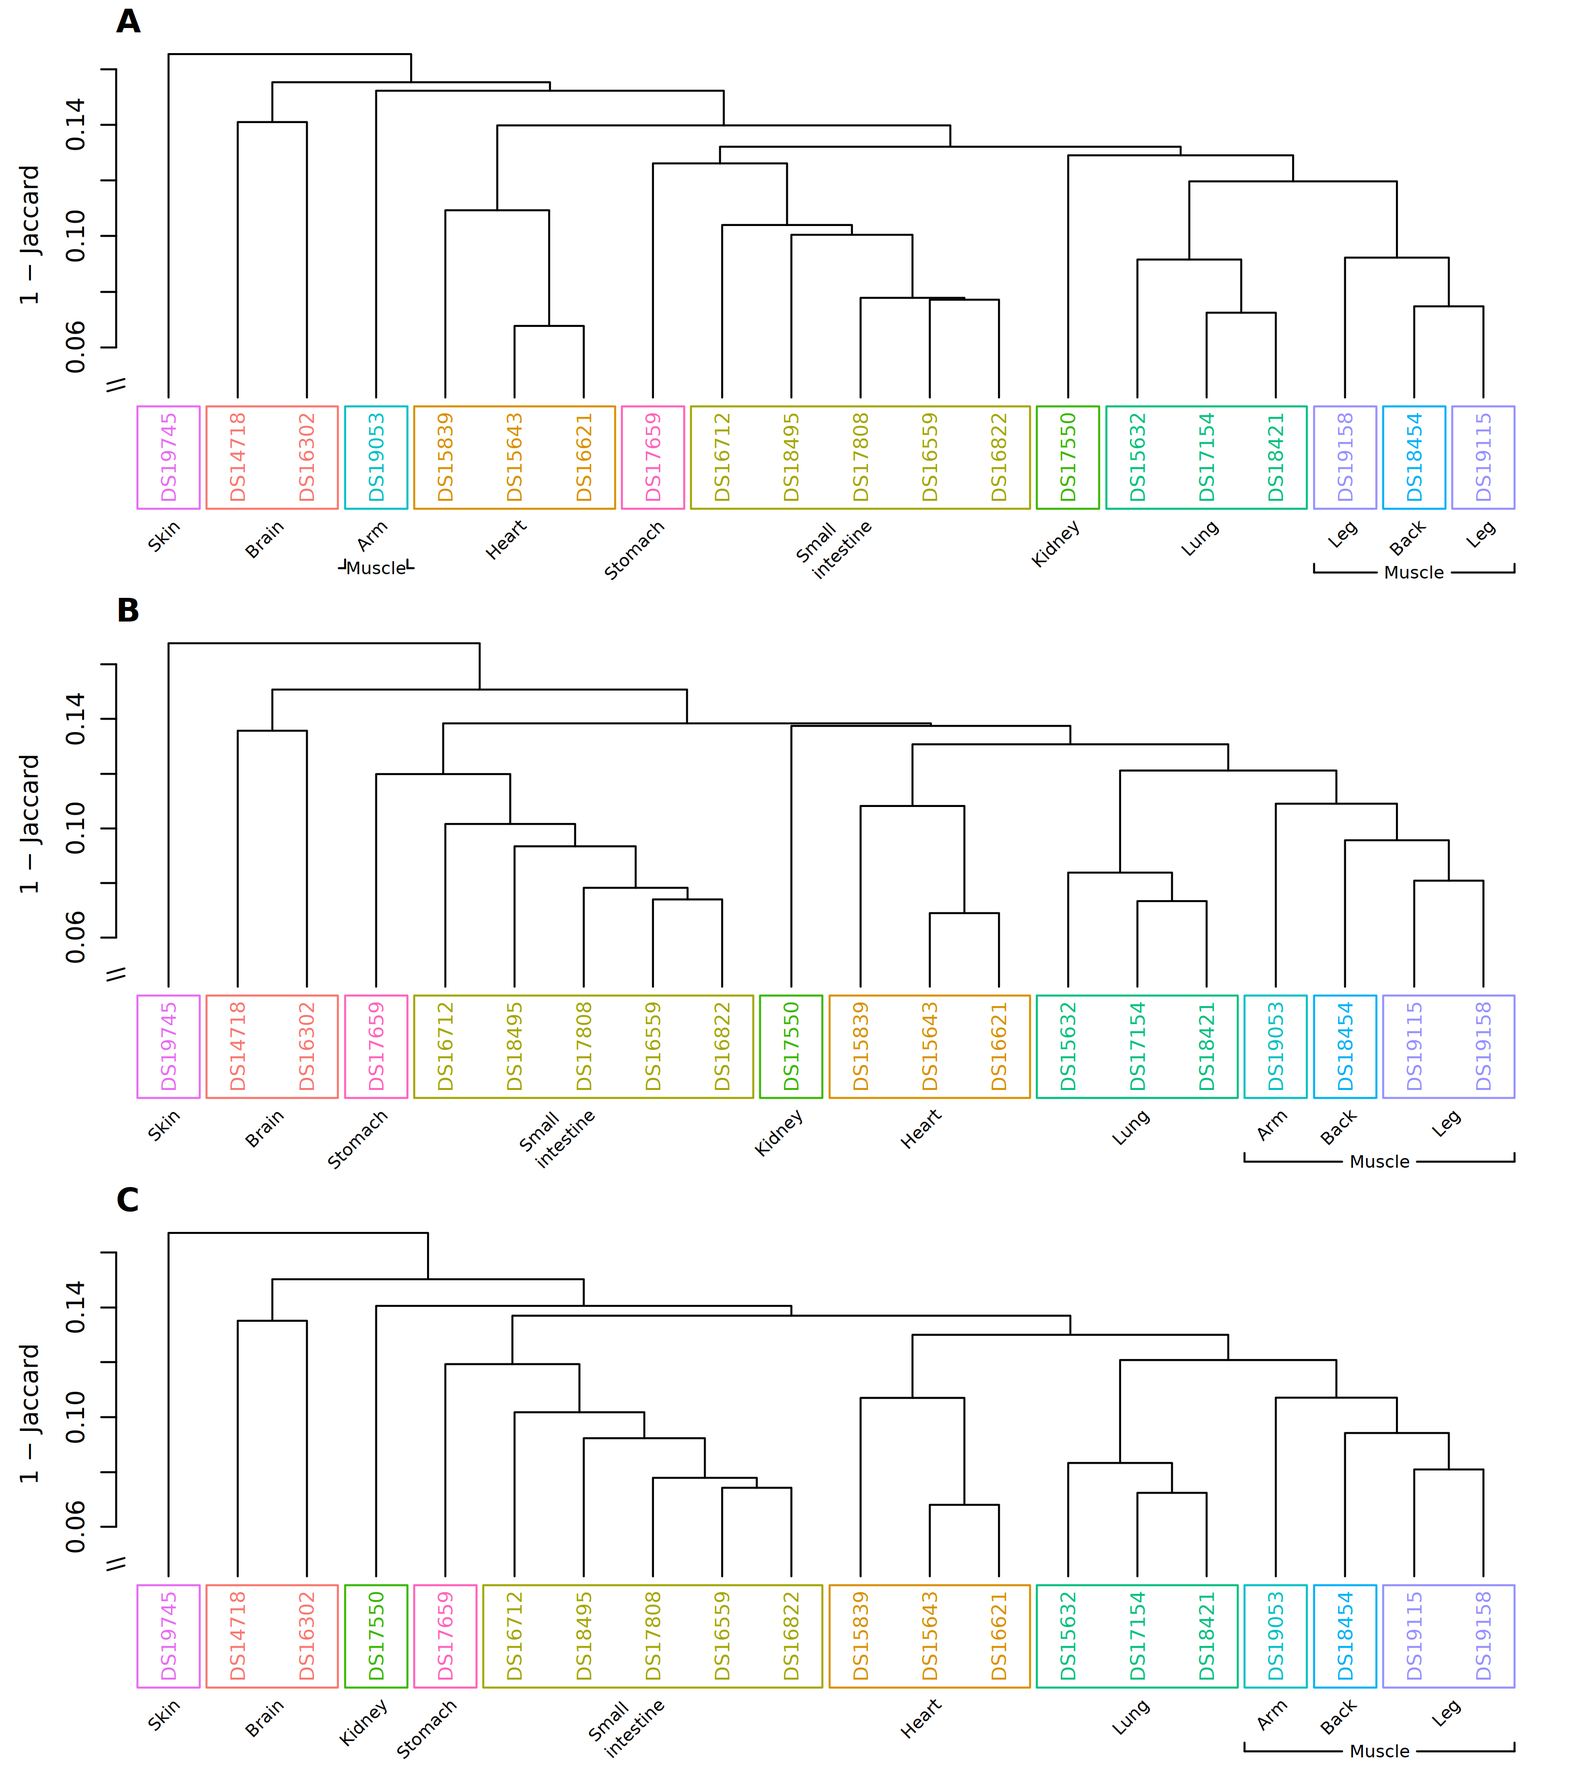
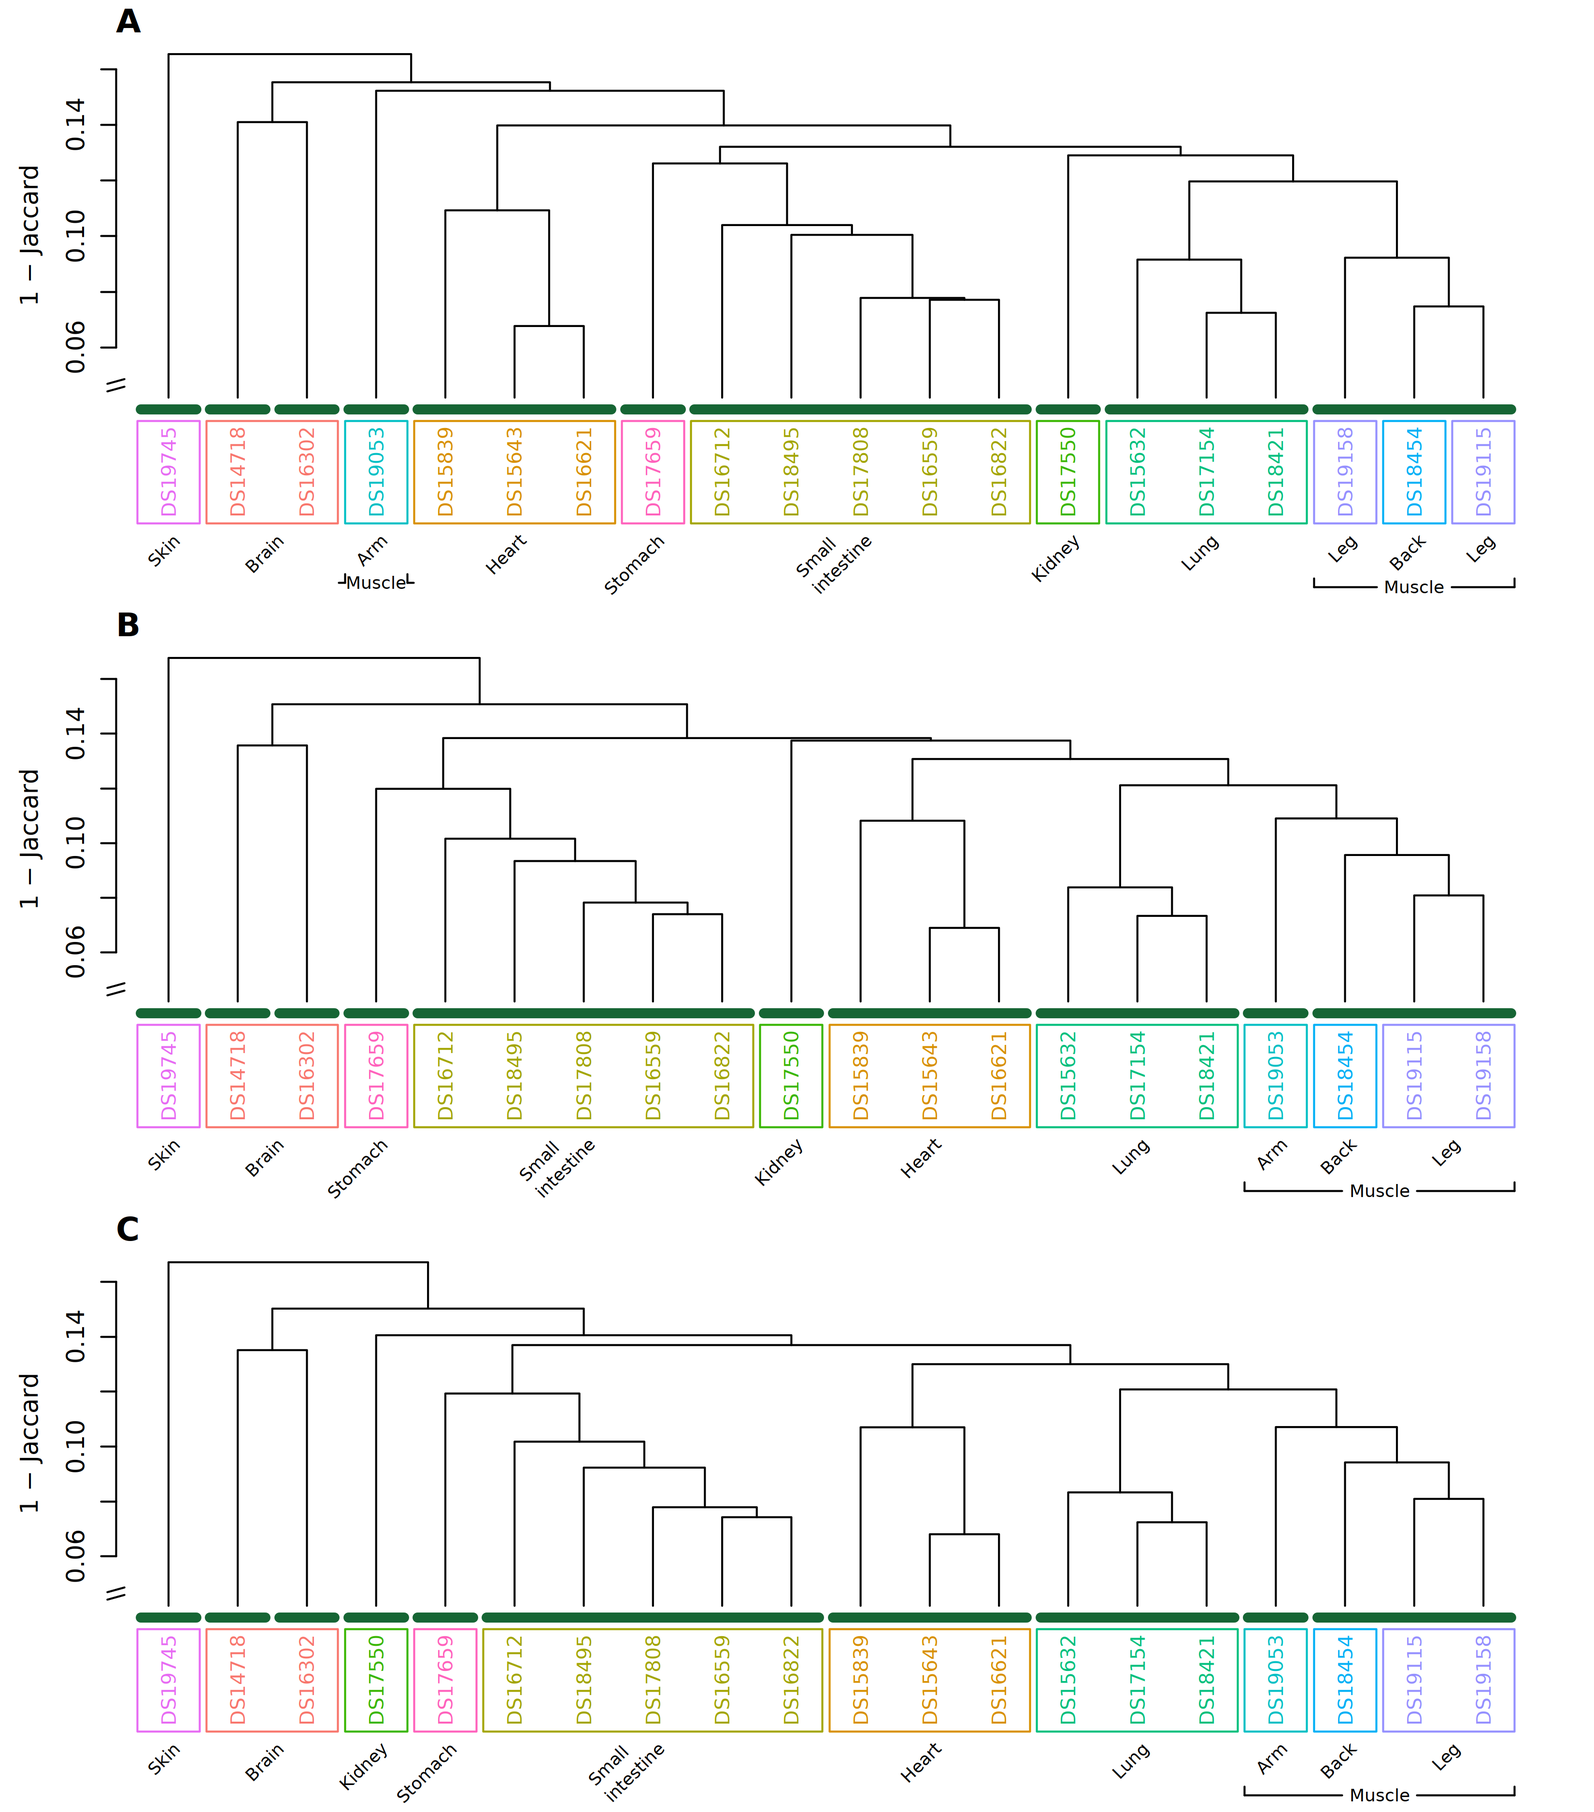
Add cluster annotations to precision comparisons

diff --git a/paper/outline.md b/paper/outline.md
@@ -82,7 +82,7 @@ Together, the synthetic and real-data benchmarks show that hammock improves the 
 
 ![Figure 6B](figures/sequence_tissue_distance_heatmap.png)
 
-**Figure 6. Sequence sketches recover fetal-tissue organization in the Maurano DNase hypersensitivity subset.** Twenty fetal-tissue DNase-seq interval sets spanning ten annotated tissue labels were converted to interval-derived sequence and compared using the inclusion–exclusion Jaccard estimate at k=10, w=30, and HyperLogLog precision p=18, the hammock CLI default. **(A)** Average-linkage agglomerative hierarchical clustering was performed on 1−J. Leaf labels show dataset accessions and are colored and boxed by annotated tissue; these annotations do not represent a discrete cluster cut. **(B)** The complete pairwise 1−J distance matrix follows the leaf order of the average-linkage dendrogram in A for direct comparison; this display ordering does not affect distances or cluster assignments. Accession-label colors and marginal bars denote the annotated tissues. A bracket visually groups arm, back, and leg under muscle, but these three muscle subtypes remain separate labels in the ten-class evaluation. Lime-green diagonal outlines show the result of cutting the average-linkage agglomerative hierarchy into ten clusters. They expose the departures from the annotated tissue partition: the two brain samples occupy separate singleton clusters, whereas the back-muscle sample and two leg-muscle samples occupy one cluster without the arm-muscle sample. The brain samples remain adjacent in the dendrogram leaf order, but their pairwise distance (1−J=0.136) exceeds the tightest within-tissue distances for heart (~0.069) and lung (~0.073). The outlined ten-cluster cut separates the brain pair while retaining those tighter groups, yielding ARI=0.910 and NMI=0.961. The ten-cluster partition, ARI, and NMI are unchanged across the tested precisions p∈{12,14,16,18,20,22,23,24}.
+**Figure 6. Sequence sketches recover fetal-tissue organization in the Maurano DNase hypersensitivity subset.** Twenty fetal-tissue DNase-seq interval sets spanning ten annotated tissue labels were converted to interval-derived sequence and compared using the inclusion–exclusion Jaccard estimate at k=10, w=30, and HyperLogLog precision p=18, the hammock CLI default. **(A)** Average-linkage agglomerative hierarchical clustering was performed on 1−J. Leaf labels show dataset accessions and are colored and boxed by annotated tissue. The dark-green strip immediately above the labels shows the inferred ten-cluster cut, with white gaps marking cluster boundaries; the colored tissue boxes remain reference annotations rather than inferred clusters. **(B)** The complete pairwise 1−J distance matrix follows the leaf order of the average-linkage dendrogram in A for direct comparison; this display ordering does not affect distances or cluster assignments. Accession-label colors and marginal bars denote the annotated tissues. A bracket visually groups arm, back, and leg under muscle, but these three muscle subtypes remain separate labels in the ten-class evaluation. Lime-green diagonal outlines show the same ten-cluster cut as the strip in A. They expose the departures from the annotated tissue partition: the two brain samples occupy separate singleton clusters, whereas the back-muscle sample and two leg-muscle samples occupy one cluster without the arm-muscle sample. The brain samples remain adjacent in the dendrogram leaf order, but their pairwise distance (1−J=0.136) exceeds the tightest within-tissue distances for heart (~0.069) and lung (~0.073). The outlined ten-cluster cut separates the brain pair while retaining those tighter groups, yielding ARI=0.910 and NMI=0.961. The ten-cluster partition, ARI, and NMI are unchanged across the tested precisions p∈{12,14,16,18,20,22,23,24}.
 
 **Figure 6 generation.** Panel A is generated by `paper/sequence_tissue_clustering/plot_sequence_tissue_clustering.R` and written to `paper/figures/sequence_tissue_clustering.png`; Panel B is generated by `paper/sequence_tissue_clustering/plot_distance_heatmap.R` and written to `paper/figures/sequence_tissue_distance_heatmap.png`. Both scripts read `experiments/maurano_dhs_validation/results/raw_d/hammock_mnmzr_p18_jaccD_k10_w30.csv`, use `jaccard_similarity_ie`, and obtain tissue annotations from `experiments/maurano_dhs_validation/data/maurano_filenames_key.tsv`. The archived sweep predates the native inclusion–exclusion output column, so the scripts derive it from `containment_AB` and `containment_BA`.
 
@@ -122,7 +122,7 @@ Because arm, back, and leg samples all represent muscle tissue, we also evaluate
 
 ![Figure S5a, panel B](figures/sequence_tissue_distance_heatmap_k20_w20.png)
 
-**Figure S5a. Numerical agreement with exact interval Jaccard does not maximize recovery of fetal-tissue organization.** The same 20 fetal-tissue DNase-seq interval sets shown in Figure 6 were compared using the inclusion–exclusion Jaccard estimate, `jaccard_similarity_ie`, at k=20, w=20, and HyperLogLog precision p=18—the parameter combination with the greatest Pearson correlation with exact BEDTools Jaccard within the p=18 comparison shown in Figure 7 (r=0.99997). **(A)** Average-linkage agglomerative hierarchical clustering was performed on 1−J. Leaf labels show dataset accessions and are colored and boxed by annotated tissue; these annotations do not represent a discrete cluster cut. **(B)** The complete pairwise 1−J distance matrix follows the dendrogram leaf order in A; this display ordering does not affect distances or cluster assignments. Accession-label colors and marginal bars denote annotated tissues, with arm, back, and leg grouped under muscle. Lime-green diagonal outlines show the result of cutting the average-linkage agglomerative hierarchy into ten clusters. Relative to the annotated tissue partition, the cut separates the two brain samples, separates one of the five small-intestine samples, and combines the arm, back, and two leg samples into one cluster, yielding ARI=0.693 and NMI=0.905. In contrast, the biologically selected k=10, w=30 setting in Figure 6 at the same precision yields ARI=0.910 and NMI=0.961, demonstrating that numerical agreement with exact pairwise Jaccard and recovery of tissue organization select different sequence-sketch parameters.
+**Figure S5a. Numerical agreement with exact interval Jaccard does not maximize recovery of fetal-tissue organization.** The same 20 fetal-tissue DNase-seq interval sets shown in Figure 6 were compared using the inclusion–exclusion Jaccard estimate, `jaccard_similarity_ie`, at k=20, w=20, and HyperLogLog precision p=18—the parameter combination with the greatest Pearson correlation with exact BEDTools Jaccard within the p=18 comparison shown in Figure 7 (r=0.99997). **(A)** Average-linkage agglomerative hierarchical clustering was performed on 1−J. Leaf labels show dataset accessions and are colored and boxed by annotated tissue. The dark-green strip immediately above the labels shows the inferred ten-cluster cut, with white gaps marking cluster boundaries; the colored tissue boxes remain reference annotations rather than inferred clusters. **(B)** The complete pairwise 1−J distance matrix follows the dendrogram leaf order in A; this display ordering does not affect distances or cluster assignments. Accession-label colors and marginal bars denote annotated tissues, with arm, back, and leg grouped under muscle. Lime-green diagonal outlines show the same ten-cluster cut as the strip in A. Relative to the annotated tissue partition, the cut separates the two brain samples, separates one of the five small-intestine samples, and combines the arm, back, and two leg samples into one cluster, yielding ARI=0.693 and NMI=0.905. In contrast, the biologically selected k=10, w=30 setting in Figure 6 at the same precision yields ARI=0.910 and NMI=0.961, demonstrating that numerical agreement with exact pairwise Jaccard and recovery of tissue organization select different sequence-sketch parameters.
 
 **Figure S5a generation.** Panel A is generated by `paper/sequence_tissue_clustering/plot_sequence_tissue_clustering.R` using `experiments/maurano_dhs_validation/results/raw_d/hammock_mnmzr_p18_jaccD_k20_w20_full.csv`, the Maurano tissue key, `paper/figures/sequence_tissue_clustering_k20_w20.png`, and `jaccard_similarity_ie` as its four positional arguments. Panel B is generated by `paper/sequence_tissue_clustering/plot_distance_heatmap.R` with the same input CSV, tissue key, `paper/figures/sequence_tissue_distance_heatmap_k20_w20.png`, and similarity-column argument.
 

diff --git a/paper/draft.md b/paper/draft.md
@@ -109,7 +109,7 @@ Together, the synthetic and real-data benchmarks show that hammock improves the 
 
 ![Figure 6B](figures/sequence_tissue_distance_heatmap.png)
 
-**Figure 6. Sequence sketches recover fetal-tissue organization in the Maurano DNase hypersensitivity subset.** Twenty fetal-tissue DNase-seq interval sets spanning ten annotated tissue labels were converted to interval-derived sequence and compared using the inclusion–exclusion Jaccard estimate at k=10, w=30, and HyperLogLog precision p=18, the hammock CLI default. **(A)** Average-linkage agglomerative hierarchical clustering was performed on 1−J. Leaf labels show dataset accessions and are colored and boxed by annotated tissue; these annotations do not represent a discrete cluster cut. **(B)** The complete pairwise 1−J distance matrix follows the leaf order of the average-linkage dendrogram in A for direct comparison; this display ordering does not affect distances or cluster assignments. Accession-label colors and marginal bars denote the annotated tissues. A bracket visually groups arm, back, and leg under muscle, but these three muscle subtypes remain separate labels in the ten-class evaluation. Lime-green diagonal outlines show the result of cutting the average-linkage agglomerative hierarchy into ten clusters. They expose the departures from the annotated tissue partition: the two brain samples occupy separate singleton clusters, whereas the back-muscle sample and two leg-muscle samples occupy one cluster without the arm-muscle sample. The brain samples remain adjacent in the dendrogram leaf order, but their pairwise distance (1−J=0.136) exceeds the tightest within-tissue distances for heart (~0.069) and lung (~0.073). The outlined ten-cluster cut separates the brain pair while retaining those tighter groups, yielding ARI=0.910 and NMI=0.961. The ten-cluster partition, ARI, and NMI are unchanged across the tested precisions p∈{12,14,16,18,20,22,23,24}.
+**Figure 6. Sequence sketches recover fetal-tissue organization in the Maurano DNase hypersensitivity subset.** Twenty fetal-tissue DNase-seq interval sets spanning ten annotated tissue labels were converted to interval-derived sequence and compared using the inclusion–exclusion Jaccard estimate at k=10, w=30, and HyperLogLog precision p=18, the hammock CLI default. **(A)** Average-linkage agglomerative hierarchical clustering was performed on 1−J. Leaf labels show dataset accessions and are colored and boxed by annotated tissue. The dark-green strip immediately above the labels shows the inferred ten-cluster cut, with white gaps marking cluster boundaries; the colored tissue boxes remain reference annotations rather than inferred clusters. **(B)** The complete pairwise 1−J distance matrix follows the leaf order of the average-linkage dendrogram in A for direct comparison; this display ordering does not affect distances or cluster assignments. Accession-label colors and marginal bars denote the annotated tissues. A bracket visually groups arm, back, and leg under muscle, but these three muscle subtypes remain separate labels in the ten-class evaluation. Lime-green diagonal outlines show the same ten-cluster cut as the strip in A. They expose the departures from the annotated tissue partition: the two brain samples occupy separate singleton clusters, whereas the back-muscle sample and two leg-muscle samples occupy one cluster without the arm-muscle sample. The brain samples remain adjacent in the dendrogram leaf order, but their pairwise distance (1−J=0.136) exceeds the tightest within-tissue distances for heart (~0.069) and lung (~0.073). The outlined ten-cluster cut separates the brain pair while retaining those tighter groups, yielding ARI=0.910 and NMI=0.961. The ten-cluster partition, ARI, and NMI are unchanged across the tested precisions p∈{12,14,16,18,20,22,23,24}.
 
 **Figure 6 generation.** Panel A is generated by `paper/sequence_tissue_clustering/plot_sequence_tissue_clustering.R` and written to `paper/figures/sequence_tissue_clustering.png`; Panel B is generated by `paper/sequence_tissue_clustering/plot_distance_heatmap.R` and written to `paper/figures/sequence_tissue_distance_heatmap.png`. Both scripts read `experiments/maurano_dhs_validation/results/raw_d/hammock_mnmzr_p18_jaccD_k10_w30.csv`, use `jaccard_similarity_ie`, and obtain tissue annotations from `experiments/maurano_dhs_validation/data/maurano_filenames_key.tsv`. The archived sweep predates the native inclusion–exclusion output column, so the scripts derive it from `containment_AB` and `containment_BA`. Optional command-line arguments can substitute another similarity CSV, tissue key, output path, or similarity column.
 
@@ -306,7 +306,7 @@ Caveat worth carrying: `jaccard_similarity_ie` is censored at zero by the non-ne
 
 ![Figure S5a, panel B](figures/sequence_tissue_distance_heatmap_k20_w20.png)
 
-**Figure S5a. Numerical agreement with exact interval Jaccard does not maximize recovery of fetal-tissue organization.** The same 20 fetal-tissue DNase-seq interval sets shown in Figure 6 were compared using the inclusion–exclusion Jaccard estimate, `jaccard_similarity_ie`, at k=20, w=20, and HyperLogLog precision p=18—the parameter combination with the greatest Pearson correlation with exact BEDTools Jaccard within the p=18 comparison shown in Figure 7 (r=0.99997). **(A)** Average-linkage agglomerative hierarchical clustering was performed on 1−J. Leaf labels show dataset accessions and are colored and boxed by annotated tissue; these annotations do not represent a discrete cluster cut. **(B)** The complete pairwise 1−J distance matrix follows the dendrogram leaf order in A. Accession-label colors and marginal bars denote annotated tissues, with arm, back, and leg grouped under muscle. Lime-green diagonal outlines show the result of cutting the average-linkage agglomerative hierarchy into ten clusters. Relative to the annotated tissue partition, the cut separates the two brain samples, separates one of the five small-intestine samples, and combines the arm, back, and two leg samples into one cluster, yielding ARI=0.693 and NMI=0.905. In contrast, the biologically selected k=10, w=30 setting in Figure 6 at the same precision yields ARI=0.910 and NMI=0.961, demonstrating that numerical agreement with exact pairwise Jaccard and recovery of tissue organization select different sequence-sketch parameters.
+**Figure S5a. Numerical agreement with exact interval Jaccard does not maximize recovery of fetal-tissue organization.** The same 20 fetal-tissue DNase-seq interval sets shown in Figure 6 were compared using the inclusion–exclusion Jaccard estimate, `jaccard_similarity_ie`, at k=20, w=20, and HyperLogLog precision p=18—the parameter combination with the greatest Pearson correlation with exact BEDTools Jaccard within the p=18 comparison shown in Figure 7 (r=0.99997). **(A)** Average-linkage agglomerative hierarchical clustering was performed on 1−J. Leaf labels show dataset accessions and are colored and boxed by annotated tissue. The dark-green strip immediately above the labels shows the inferred ten-cluster cut, with white gaps marking cluster boundaries; the colored tissue boxes remain reference annotations rather than inferred clusters. **(B)** The complete pairwise 1−J distance matrix follows the dendrogram leaf order in A. Accession-label colors and marginal bars denote annotated tissues, with arm, back, and leg grouped under muscle. Lime-green diagonal outlines show the same ten-cluster cut as the strip in A. Relative to the annotated tissue partition, the cut separates the two brain samples, separates one of the five small-intestine samples, and combines the arm, back, and two leg samples into one cluster, yielding ARI=0.693 and NMI=0.905. In contrast, the biologically selected k=10, w=30 setting in Figure 6 at the same precision yields ARI=0.910 and NMI=0.961, demonstrating that numerical agreement with exact pairwise Jaccard and recovery of tissue organization select different sequence-sketch parameters.
 
 **Figure S5a generation.** Panel A is generated by `paper/sequence_tissue_clustering/plot_sequence_tissue_clustering.R` using `experiments/maurano_dhs_validation/results/raw_d/hammock_mnmzr_p18_jaccD_k20_w20_full.csv`, the Maurano tissue key, `paper/figures/sequence_tissue_clustering_k20_w20.png`, and `jaccard_similarity_ie` as its four positional arguments. Panel B is generated by `paper/sequence_tissue_clustering/plot_distance_heatmap.R` with the same input CSV, tissue key, `paper/figures/sequence_tissue_distance_heatmap_k20_w20.png`, and similarity-column argument.
 
